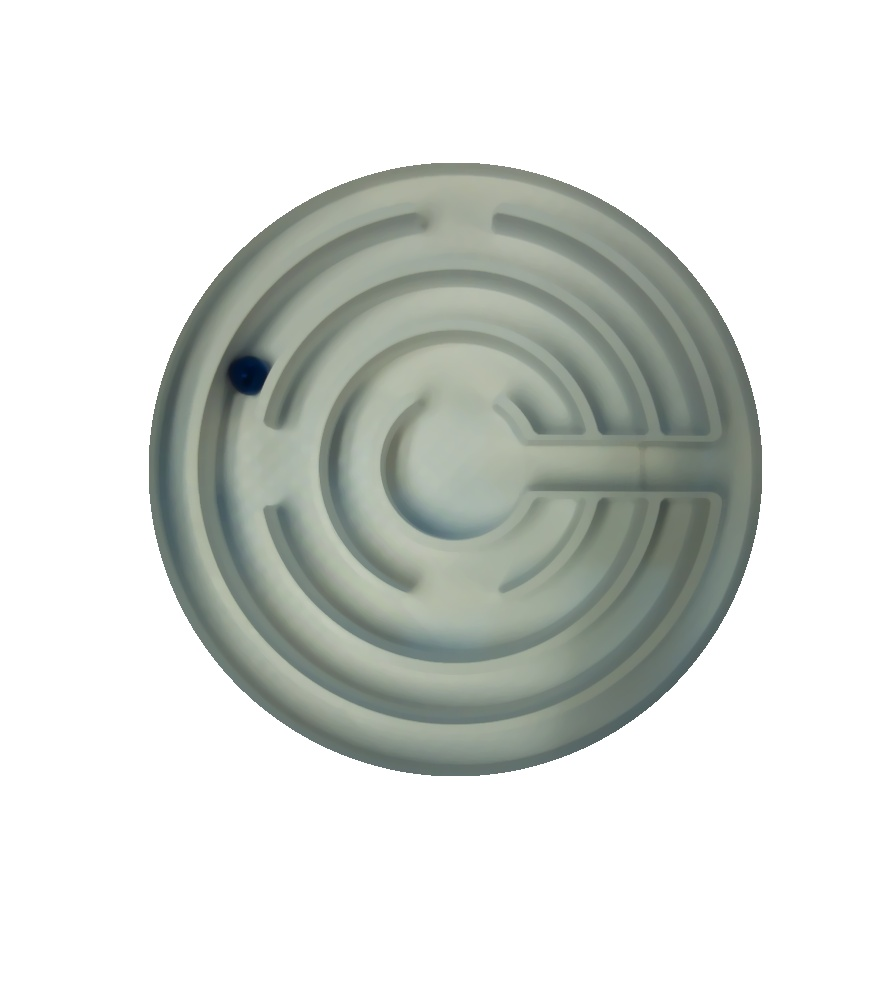
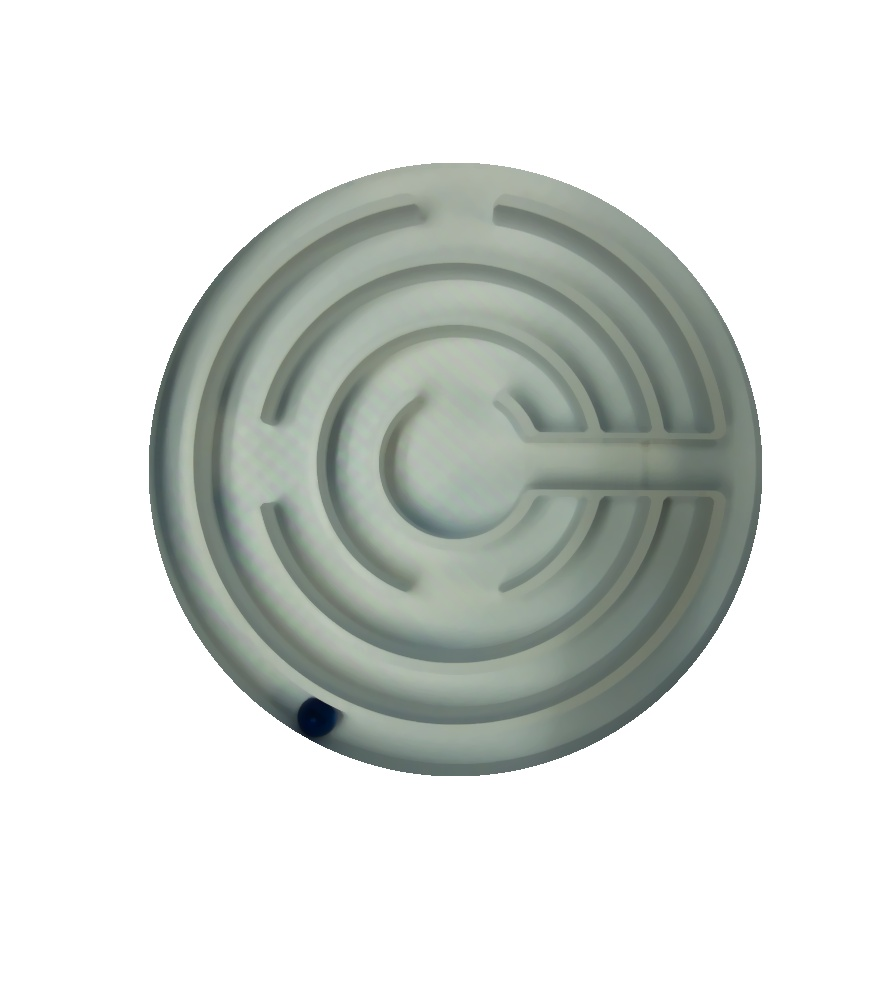
tt

diff --git a/Region_Detection.py b/Region_Detection.py
@@ -9,6 +9,7 @@ from Region_Dictionary import Region
 import time
 import numpy as np
 import math
+from picamera2 import Picamera2
 #*********************************************
 def rectangle_coords(x,y,size):
     sizee=int(size/2)
@@ -20,7 +21,7 @@ def rectangle_coords(x,y,size):
         rect_list.append((x+i,y+j))
     return rect_list
 #*********************************************
-def Move_Hexxy_JR(Curr_Region,SerialObj,cap,Ball_Tracking,Error_List):
+def Move_Hexxy_JR(Curr_Region,SerialObj,Ball_Tracking,Error_List,piCam):
     Start_Time=time.time()
     Ball_Coords=Ball_Tracking[-1]
     Target=Region[Curr_Region]["Target"]
@@ -33,7 +34,7 @@ def Move_Hexxy_JR(Curr_Region,SerialObj,cap,Ball_Tracking,Error_List):
     while(Error>2):
         Current_Time=time.time()
         Elapse_Time=Current_Time-Start_Time+1
-        ret,frame =cap.read()
+        frame=piCam.capture_array()
         cv2.imshow('Original',frame)
         Area=Ball_detection(frame,Ball_Tracking)
         Ball_Coords=Ball_Tracking[-1]
@@ -41,40 +42,41 @@ def Move_Hexxy_JR(Curr_Region,SerialObj,cap,Ball_Tracking,Error_List):
         Error_List.append(Error)
         Diff_Error=Error_List[-1]-Error_List[-2]
         print(Curr_Region)
-        print("Error")
-        print(Error)
-        print("Error Sum")
-        print(sum(Error_List))
-        print("Error Diff")
-        print(Diff_Error)
-        print("PID Value")
-        print(((Error*P_Gain)+(sum(Error_List)*I_Gain)+(Diff_Error*D_Gain)))
-        print("***************")
+#         print("Error")
+#         print(Error)
+#         print("Error Sum")
+#         print(sum(Error_List))
+#         print("Error Diff")
+#         print(Diff_Error)
+#         print("PID Value")
+#         print(((Error*P_Gain)+(sum(Error_List)*I_Gain)+(Diff_Error*D_Gain)))
+#         print("***************")
         Tilt_X=Region[Curr_Region]["X_pos"]*((Error*P_Gain)+(sum(Error_List)*I_Gain)+(Diff_Error*D_Gain))
         Tilt_Y=Region[Curr_Region]["Y_pos"]*((Error*P_Gain)++(sum(Error_List)*I_Gain)+(Diff_Error*D_Gain))
         if(Area!=0):
             if(Region_Detection(Area,frame)!=Curr_Region):
+                print(Area)
                 print("Middel Change")
                 break
         else:
             break
-        if(len(set(Ball_Tracking))<4 and len(Ball_Tracking)>9):
-            print("Stuck")
-            for i in Region[Curr_Region]["Stuck"]:
-                Tilt_X_off=i[0]
-                Tilt_Y_off=i[1]
-                SerialObj.write(('MOV U '+str(Tilt_X_off)+' V '+str(Tilt_Y_off)+'\n').encode('ascii'))
-                for i in range(20):
-                    ret,frame =cap.read()
-                    cv2.imshow('Original',frame)
-                    Area=Ball_detection(frame,Ball_Tracking)
-                    if(Area!=0):
-                        if(Region_Detection(Area,frame)!=Curr_Region):
-                            print("Middel Change")
-                            return
-                    time.sleep(.05)
-            Ball_Tracking=[Ball_Tracking[-1]]
-            continue
+#         if(len(set(Ball_Tracking))<4 and len(Ball_Tracking)>9):
+#             print("Stuck")
+#             for i in Region[Curr_Region]["Stuck"]:
+#                 Tilt_X_off=i[0]
+#                 Tilt_Y_off=i[1]
+#                 SerialObj.write(('MOV U '+str(Tilt_X_off)+' V '+str(Tilt_Y_off)+'\n').encode('ascii'))
+#                 for i in range(20):
+#                     frame=piCam.capture_array()
+#                     cv2.imshow('Original',frame)
+#                     Area=Ball_detection(frame,Ball_Tracking)
+#                     if(Area!=0):
+#                         if(Region_Detection(Area,frame)!=Curr_Region):
+#                             print("Middel Change")
+#                             return
+#                     time.sleep(.05)
+#             Ball_Tracking=[Ball_Tracking[-1]]
+#             continue
         SerialObj.write(('VMO? U '+str(Tilt_X)+' V '+str(Tilt_Y)+'\n').encode('ascii'))
         Can_Move_There=SerialObj.readline()  
         if(int(Can_Move_There.decode())==1):
@@ -100,7 +102,7 @@ def Ball_detection(frame,Ball_Tracking):
 #     b_mask=cv2.morphologyEx(b_mask,cv2.MORPH_CLOSE,kernel)
     
     contours,_=cv2.findContours(b_mask,cv2.RETR_TREE,cv2.CHAIN_APPROX_SIMPLE)
-    print(len(contours))
+    #print(len(contours))
     for cnt in contours:
         area=cv2.contourArea(cnt)
         if (area>10 ):#and area<500): # will change depending on the distance of the image
@@ -116,15 +118,15 @@ def Ball_detection(frame,Ball_Tracking):
             x=int(x+(w/2))
             y=int(y+(h/2))
             rect=[(x,y)]#rectangle_coords(x,y,5)
-#             frame[y][x]=(255,255,255)
-#             frame[y+1][x]=(255,255,255)
-#             frame[y-1][x]=(255,255,255)
-#             frame[y][x+1]=(255,255,255)
-#             frame[y+1][x+1]=(255,255,255)
-#             frame[y-1][x+1]=(255,255,255)
-#             frame[y][x-1]=(255,255,255)
-#             frame[y+1][x-1]=(255,255,255)
-#             frame[y-1][x-1]=(255,255,255)
+            frame[y][x]=(255,255,255)
+            frame[y+1][x]=(255,255,255)
+            frame[y-1][x]=(255,255,255)
+            frame[y][x+1]=(255,255,255)
+            frame[y+1][x+1]=(255,255,255)
+            frame[y-1][x+1]=(255,255,255)
+            frame[y][x-1]=(255,255,255)
+            frame[y+1][x-1]=(255,255,255)
+            frame[y-1][x-1]=(255,255,255)
             #cv2.imshow('Original',frame)
             # cv2.imshow('Blue Detector',b_mask) # to display the blue object output
             return rect

diff --git a/Region_Dictionary.py b/Region_Dictionary.py
@@ -14,12 +14,12 @@ def create_list(ranges,steps):
        lists=np.concatenate((lists,np.linspace(ranges[i],ranges[i+1], num=steps))) 
     return lists
 
-ring1_1=create_region((308, 252),200,240,310,322)#298,310)
-ring1_2=create_region((308, 252),200,240,223,312) #2 degree overlap
-ring1_3=create_region((308, 252),200,240,136,233) #5 degree overlap
-ring1_4=create_region((308, 252),200,240,44,136)  #5 degree overlap
-ring1_5=create_region((308, 252),200,240,-40,49) 
-ramp=create_region((308, 252),58,200,39,50)
+ring1_1=create_region((458,469),267,308,265,277)#298,310)
+ring1_2=create_region((458, 469),275,308,181,268) #2 degree overlap
+ring1_3=create_region((458, 469),269,308,87,184) #5 degree overlap
+ring1_4=create_region((458, 469),269,308,-3,87)  #5 degree overlap
+ring1_5=create_region((458, 469),275,308,-86,0)  #2 degree overlap
+ramp=create_region((458,469),80,279,-7,4)
 
 # ring2_1=create_region((308, 252),155,200,-25,26)
 # ring2_2=create_region((308, 252),155,200,225,340)
@@ -46,47 +46,47 @@ P_2=0.0025
 I_2=0.00001
 D_2=0.09
 Region = {
-  "Ring1_1" :{"Area":ring1_1,"X_pos":-9,
-                             "Y_pos":2.5,
+  "Ring1_1" :{"Area":ring1_1,"X_pos":0,
+                             "Y_pos":-10,
                              "P Gain":0.0015,
                              "I Gain":0.00,
                              "D Gain":0.00,
-                             "Target":[int(160*math.cos(304*convert)+308),int(160*math.sin(304*convert)+252)], #[x,y]
+                             "Target":[int(210*math.cos(271*convert)+458),int(210*math.sin(271*convert)+469)], #[x,y]
                               "Stuck":[[-3,0]]},
-   "Ring1_2" :{"Area":ring1_2,"X_pos":4.5,
-                              "Y_pos":-1.5,#-1
+   "Ring1_2" :{"Area":ring1_2,"X_pos":1,
+                              "Y_pos":5,#-1
                               "P Gain":P,#.003,
                                "I Gain":I,#0.00001,
                                "D Gain":D,#0.1,
-                              "Target":[int(220*math.cos(304*convert)+308),int(220*math.sin(304*convert)+252)],
+                              "Target":[int(287*math.cos(271*convert)+458),int(287*math.sin(271*convert)+469)],
                               "Stuck":[[5,0]]},
-  "Ring1_3" :{"Area":ring1_3,"X_pos":2.5,
-                             "Y_pos":6,
+  "Ring1_3" :{"Area":ring1_3,"X_pos":-5,
+                             "Y_pos":5,
                              "P Gain":P_out,#.0015,
                              "I Gain":I_out,#0,
                              "D Gain":D_out,#0.1,
-                             "Target":[int(220*math.cos(304*convert)+308),int(220*math.sin(304*convert)+252)],
+                             "Target":[int(287*math.cos(271*convert)+458),int(287*math.sin(271*convert)+469)],
                              "Stuck":[[0,5]]},
-   "Ring1_5" :{"Area":ring1_5,"X_pos":5.5,
-                              "Y_pos":1,#1
+   "Ring1_5" :{"Area":ring1_5,"X_pos":-1,
+                              "Y_pos":5,#1
                               "P Gain":P+.001,#.003,
                               "I Gain":I,#0.00001,
                               "D Gain":D-.02,#0.1,
-                              "Target":[int(220*math.cos(304*convert)+308),int(220*math.sin(304*convert)+252)],
+                              "Target":[int(287*math.cos(271*convert)+458),int(287*math.sin(271*convert)+469)],
                               "Stuck":[[7,0]]},
-   "Ring1_4" :{"Area":ring1_4,"X_pos":2.5,
-                               "Y_pos":-6,
+   "Ring1_4" :{"Area":ring1_4,"X_pos":5,
+                               "Y_pos":5,
                                "P Gain":P_out,#.0015,
                                "I Gain":I_out,#0,
                                "D Gain":D_out,#.1,
-                               "Target":[int(220*math.cos(304*convert)+308),int(220*math.sin(304*convert)+252)],
+                               "Target":[int(287*math.cos(271*convert)+458),int(287*math.sin(271*convert)+469)],
                                "Stuck":[[0,5]]},
    "Ramp_0" :{"Area":ramp,"X_pos":2.5,
-                               "Y_pos":-9,
-                               "P Gain":.01,
+                               "Y_pos":10,
+                               "P Gain":0,
                                "I Gain":0.0000,
                                "D Gain":0.00,
-                               "Target":[int(215*math.cos(33*convert)+308),int(215*math.sin(33*convert)+252)],
+                               "Target":[int(300*math.cos(-1*convert)+458),int(300*math.sin(-1*convert)+469)],
                                "Stuck":[[-10,1]]},
 
     # "Ring2_1" :{"Area":ring2_1,"X_pos":5,

diff --git a/Color_Ball_Detection.py b/Color_Ball_Detection.py
@@ -13,11 +13,11 @@ convert=math.pi/180
 from picamera2 import Picamera2
 #*****************************************
 
-ring1_1=create_region((308, 252),200,240,310,322)#298,310)
-ring1_2=create_region((308, 252),200,240,223,312) #2 degree overlap
-ring1_3=create_region((308, 252),200,240,136,233) #5 degree overlap
-ring1_4=create_region((308, 252),203,240,44,136)  #5 degree overlap
-ring1_5=create_region((308, 252),203,240,-40,49)  #2 degree overlap
+ring1_1=create_region((458,469),267,308,265,277)#298,310)
+ring1_2=create_region((458, 469),275,308,181,268) #2 degree overlap
+ring1_3=create_region((458, 469),269,308,87,184) #5 degree overlap
+ring1_4=create_region((458, 469),269,308,-3,87)  #5 degree overlap
+ring1_5=create_region((458, 469),275,308,-86,0)  #2 degree overlap
 
 ring2_1=create_region((308, 252),155,200,-25,26)
 ring2_2=create_region((308, 252),155,200,225,340)
@@ -37,14 +37,14 @@ ring3_5=create_region((308, 252),113,150,43,110)
 # ring4_4=create_region((308, 252),78,103,-45,-5)
 # ring4_5=create_region((308, 252),78,103,-97,-45)
 # ring5_1=create_region((308, 252),0,50,0,360)
-ramp=create_region((308, 252),58,204,39,50)
+ramp=create_region((458,469),80,279,-7,4)
 #************************************************
-# SerialObj = serial.Serial('COM8', 115200, timeout=30, parity=serial.PARITY_EVEN, rtscts=1)# COMxx   format on Windows
-# SerialObj.baudrate = 115200  # set Baud rate to 9600
-# SerialObj.bytesize = 8     # Number of data bits = 8
-# SerialObj.parity   ='N'    # No parity
-# SerialObj.stopbits = 1     # Number of Stop bits = 1
-# SerialObj.write(b'VLS 10\n')
+SerialObj = serial.Serial('/dev/ttyUSB0', 115200, timeout=30, parity=serial.PARITY_EVEN, rtscts=1)# COMxx   format on Windows
+SerialObj.baudrate = 115200  # set Baud rate to 9600
+SerialObj.bytesize = 8     # Number of data bits = 8
+SerialObj.parity   ='N'    # No parity
+SerialObj.stopbits = 1     # Number of Stop bits = 1
+SerialObj.write(b'VLS 15\n')
 #************************************************* 
 Ball_Tracking=[]
 Prev_Region="Deez Nuts"
@@ -70,8 +70,8 @@ while (True):
         if cap1==1:
             Maze=frame
             cap1=0
-            cv2.imwrite('YourMoM.jpg',frame)
-#             break
+            cv2.imwrite('poopoopeepee.jpg',frame)
+            break
         Ball_Location=Ball_detection(frame,Ball_Tracking)
         if(Ball_Location!=0):
             Current_Region=Region_Detection(Ball_Location,frame)
@@ -79,8 +79,8 @@ while (True):
             if(Current_Region!=0):
                 if(Current_Region[4]!=Prev_Region[4]):
                     Error_List=[0]
-                print(Current_Region)
-#                 Move_Hexxy_JR(Current_Region,SerialObj,cap,Ball_Tracking,Error_List)
+                #print(Current_Region)
+                Move_Hexxy_JR(Current_Region,SerialObj,Ball_Tracking,Error_List,piCam)
                 Prev_Region=Current_Region
             else:
                 print("No Location G")
@@ -117,13 +117,14 @@ rect = patches.Circle((308, 252), 240, linewidth=1, edgecolor='r', facecolor='no
 
 
 #plt.plot([item[0] for item in Ball_Location], [item[1] for item in Ball_Location])
-# plt.scatter([item[0] for item in ring1_1], [item[1] for item in ring1_1])
-# plt.scatter([item[0] for item in ring1_2], [item[1] for item in ring1_2],s=.5)
-# plt.scatter([item[0] for item in ring1_3], [item[1] for item in ring1_3],s=.5)
-# plt.scatter([item[0] for item in ring1_4], [item[1] for item in ring1_4],s=.5)
-# plt.scatter([item[0] for item in ring1_5], [item[1] for item in ring1_5],s=.5)
-# plt.scatter(int(160*math.cos(304*convert)+308),int(160*math.sin(304*convert)+252),s=4)
-# plt.scatter(int(220*math.cos(304*convert)+308),int(220*math.sin(304*convert)+252),s=4)
+plt.scatter([item[0] for item in ring1_1], [item[1] for item in ring1_1])
+plt.scatter([item[0] for item in ring1_2], [item[1] for item in ring1_2],s=.5)
+plt.scatter([item[0] for item in ring1_3], [item[1] for item in ring1_3],s=.5)
+plt.scatter([item[0] for item in ring1_4], [item[1] for item in ring1_4],s=.5)
+plt.scatter([item[0] for item in ring1_5], [item[1] for item in ring1_5],s=.5)
+plt.scatter(int(210*math.cos(271*convert)+458),int(210*math.sin(271*convert)+469),s=4)
+plt.scatter(int(287*math.cos(271*convert)+458),int(287*math.sin(271*convert)+469),s=4)
+plt.scatter(int(300*math.cos(-1*convert)+458),int(300*math.sin(-1*convert)+469),s=4)
 # plt.scatter([item[0] for item in ring2_1], [item[1] for item in ring2_1],s=.5)
 # plt.scatter([item[0] for item in ring2_2], [item[1] for item in ring2_2],s=.5)
 # plt.scatter([item[0] for item in ring2_3], [item[1] for item in ring2_3],s=.5)

diff --git a/tmp.py b/tmp.py
@@ -1,1 +1,12 @@
-print("Deez nuts")
+import serial
+import time
+SerialObj = serial.Serial('/dev/ttyUSB0', 115200, timeout=30, parity=serial.PARITY_EVEN, rtscts=1)# COMxx   format on Windows
+SerialObj.baudrate = 115200  # set Baud rate to 9600
+SerialObj.bytesize = 8     # Number of data bits = 8
+SerialObj.parity   ='N'    # No parity
+SerialObj.stopbits = 1     # Number of Stop bits = 1
+SerialObj.write(b'VLS 10\n')
+SerialObj.write(('MOV U '+str(10)+' V '+str(3)+'\n').encode('ascii'))
+time.sleep(.5)
+SerialObj.write(('MOV U '+str(0)+' V '+str(0)+'\n').encode('ascii'))
+SerialObj.close()

diff --git a/create_region.py b/create_region.py
@@ -13,6 +13,5 @@ def create_region(center,inner_ring,outer_ring,start,end):
         for j in range(start,end):
             x=int((inner_ring+i)*math.cos(j*convert)+center[0])
             y=int((inner_ring+i)*math.sin(j*convert)+center[1])
-            if(y>0 and y<480): #just for this picture, can be removed later
-                region.append((x,y))
+            region.append((x,y))
     return region
